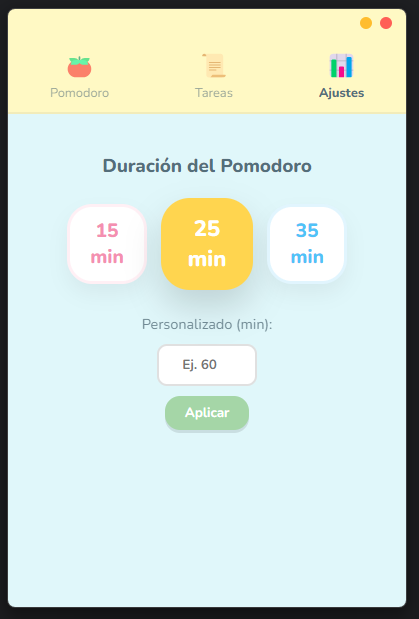
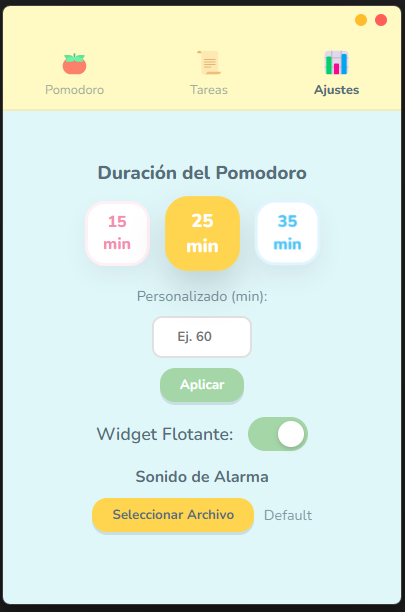
little fix on tareas

Changed region(s): [[0.1481, 0.2484, 0.8296, 0.9003], [0.0, 0.0, 1.0, 0.9935], [0.6519, 0.8382, 0.7704, 0.8693]]

diff --git a/src/index.html b/src/index.html
@@ -37,107 +37,105 @@
     </nav>
 
     <!-- Main Content Area -->
-    <!-- Main Content Area -->
-    <main>
-        <div id="pomodoro" class="tab-content active"
-            style="display: flex; flex-direction: column; width: 100%; align-items: center;">
-            <div class="timer-container">
-                <!-- Decorative elements mimicking the design -->
-                <div class="deco-star" style="top: 20%; left: 10%;">⭐</div>
-                <!-- <div class="deco-heart" style="top: 15%; right: 10%;">💖</div>-->
+    <main id="pomodoro" class="tab-content active">
+        <div class="timer-container">
+            <!-- Decorative elements mimicking the design -->
+            <div class="deco-star" style="top: 20%; left: 10%;">⭐</div>
+            <!-- <div class="deco-heart" style="top: 15%; right: 10%;">💖</div>-->
 
-                <div class="timer-circle-outer">
-                    <svg class="progress-ring" width="200" height="200">
-                        <circle class="progress-ring__circle-bg" stroke="#E0E0E0" stroke-width="15" fill="white" r="90"
-                            cx="100" cy="100" />
-                        <circle class="progress-ring__circle" stroke="#FFD54F" stroke-width="15" fill="transparent"
-                            r="90" cx="100" cy="100" />
-                    </svg>
-                    <div class="timer-text">
-                        <span id="time-display">25:00</span>
-                    </div>
-                </div>
-
-                <!-- Little cute characters (Generic CSS placeholders or emojis for now) -->
-                <div class="character-left"><img src="../assets/GatoPomodoro.svg" alt="Cute Cat"
-                        style="width: 11rem; height: auto;"></div>
-                <div class="character-right"><img src="../assets/GatoLibro.svg" alt="Reading Cat"
-                        style="width: 10rem; height: auto;"></div>
-            </div>
-
-            <div class="tasks-container">
-                <div class="tasks-header">
-                    <h3>Tareas</h3>
-                </div>
-
-
-
-                <div class="task-list" id="task-list">
-                    <!-- Tasks will be injected here -->
-                    <div class="task-item">
-                        <input type="checkbox" id="task1">
-                        <label for="task1">Estudiar programación</label>
-                        <span class="task-icon">🌈</span>
-                    </div>
+            <div class="timer-circle-outer">
+                <svg class="progress-ring" width="200" height="200">
+                    <circle class="progress-ring__circle-bg" stroke="#E0E0E0" stroke-width="15" fill="white" r="90"
+                        cx="100" cy="100" />
+                    <circle class="progress-ring__circle" stroke="#FFD54F" stroke-width="15" fill="transparent" r="90"
+                        cx="100" cy="100" />
+                </svg>
+                <div class="timer-text">
+                    <span id="time-display">25:00</span>
                 </div>
             </div>
+
+            <!-- Little cute characters (Generic CSS placeholders or emojis for now) -->
+            <div class="character-left"><img src="../assets/GatoPomodoro.svg" alt="Cute Cat"
+                    style="width: 11rem; height: auto;"></div>
+            <div class="character-right"><img src="../assets/GatoLibro.svg" alt="Reading Cat"
+                    style="width: 10rem; height: auto;"></div>
         </div>
 
-        <div id="tareas" class="tab-content" style="display: none;">
-            <div class="tasks-container" style="height: 100%; box-shadow: none;">
-                <div class="tasks-header">
-                    <h3>Lista de Tareas</h3>
-                </div>
-
-                <div id="add-task-form-full" style="display: none; padding: 10px; border-bottom: 1px solid #eee;">
-                    <input type="text" id="new-task-input-full" placeholder="Nueva tarea..."
-                        style="width: 100%; padding: 8px; border: 1px solid #ddd; border-radius: 8px; outline: none;">
-                </div>
-
-                <div class="task-list" id="task-list-full">
-                    <!-- Full task list -->
-                </div>
+        <div class="tasks-container">
+            <div class="tasks-header">
+                <h3>Tareas</h3>
             </div>
-        </div>
 
-        <div id="ajustes" class="tab-content" style="display: none;">
-            <div class="settings-container" style="text-align: center; padding: 20px;">
-                <h3>Duración del Pomodoro</h3>
-                <div class="time-options">
-                    <button class="btn-time" data-time="15">15 min</button>
-                    <button class="btn-time active" data-time="25">25 min</button>
-                    <button class="btn-time" data-time="35">35 min</button>
-                </div>
 
-                <div class="custom-time">
-                    <label>Personalizado (min):</label>
-                    <input type="number" id="custom-time-input" min="1" max="120" placeholder="Ej. 60">
-                    <button id="btn-set-custom" class="btn-small">Aplicar</button>
-                </div>
 
-                <div class="setting-item"
-                    style="margin-top: 15px; display: flex; align-items: center; justify-content: center; gap: 15px;">
-                    <label for="widget-toggle" style="font-size: 1.1rem; font-weight: 600;">Widget Flotante:</label>
-                    <label class="switch">
-                        <input type="checkbox" id="widget-toggle" checked>
-                        <span class="slider round"></span>
-                    </label>
-                </div>
-
-                <div class="setting-item" style="margin-top: 15px; text-align: center;">
-                    <h4 style="margin: 0 0 10px 0; color: #546E7A;">Sonido de Alarma</h4>
-                    <div style="display: flex; gap: 10px; justify-content: center; align-items: center;">
-                        <button id="btn-select-sound" class="btn-small"
-                            style="background:var(--accent-yellow); color: #546E7A;">Seleccionar Archivo</button>
-                        <span id="current-sound-label"
-                            style="font-size: 0.9rem; opacity: 0.7; max-width: 100px; white-space: nowrap; overflow: hidden; text-overflow: ellipsis;">Default</span>
-                        <button id="btn-reset-sound"
-                            style="background:none; border:none; cursor:pointer; font-size:1.2rem; color:#FF5F56;">✖</button>
-                    </div>
+            <div class="task-list" id="task-list">
+                <!-- Tasks will be injected here -->
+                <div class="task-item">
+                    <input type="checkbox" id="task1">
+                    <label for="task1">Estudiar programación</label>
+                    <span class="task-icon">🌈</span>
                 </div>
             </div>
         </div>
     </main>
+
+    <div id="tareas" class="tab-content" style="display: none;">
+        <div class="tasks-container" style="height: 100%; box-shadow: none;">
+            <div class="tasks-header">
+                <h3>Lista de Tareas</h3>
+            </div>
+
+            <div id="add-task-form-full" style="display: none; padding: 10px; border-bottom: 1px solid #eee;">
+                <input type="text" id="new-task-input-full" placeholder="Nueva tarea..."
+                    style="width: 100%; padding: 8px; border: 1px solid #ddd; border-radius: 8px; outline: none;">
+            </div>
+
+            <div class="task-list" id="task-list-full">
+                <!-- Full task list -->
+            </div>
+        </div>
+    </div>
+
+    <div id="ajustes" class="tab-content" style="display: none;">
+        <div class="settings-container" style="text-align: center; padding: 20px;">
+            <h3>Duración del Pomodoro</h3>
+            <div class="time-options">
+                <button class="btn-time" data-time="15">15 min</button>
+                <button class="btn-time active" data-time="25">25 min</button>
+                <button class="btn-time" data-time="35">35 min</button>
+            </div>
+
+            <div class="custom-time">
+                <label>Personalizado (min):</label>
+                <input type="number" id="custom-time-input" min="1" max="120" placeholder="Ej. 60">
+                <button id="btn-set-custom" class="btn-small">Aplicar</button>
+            </div>
+
+            <div class="setting-item"
+                style="margin-top: 15px; display: flex; align-items: center; justify-content: center; gap: 15px;">
+                <label for="widget-toggle" style="font-size: 1.1rem; font-weight: 600;">Widget Flotante:</label>
+                <label class="switch">
+                    <input type="checkbox" id="widget-toggle" checked>
+                    <span class="slider round"></span>
+                </label>
+            </div>
+
+            <div class="setting-item" style="margin-top: 15px; text-align: center;">
+                <h4 style="margin: 0 0 10px 0; color: #546E7A;">Sonido de Alarma</h4>
+                <div style="display: flex; gap: 10px; justify-content: center; align-items: center;">
+                    <button id="btn-select-sound" class="btn-small"
+                        style="background:var(--accent-yellow); color: #546E7A;">Seleccionar Archivo</button>
+                    <span id="current-sound-label"
+                        style="font-size: 0.9rem; opacity: 0.7; max-width: 100px; white-space: nowrap; overflow: hidden; text-overflow: ellipsis;">Default</span>
+                    <button id="btn-reset-sound"
+                        style="background:none; border:none; cursor:pointer; font-size:1.2rem; color:#FF5F56;">✖</button>
+                </div>
+            </div>
+        </div>
+    </div>
+    </div>
+    </div>
 
     <!-- Bottom Controls -->
     <footer class="controls">

diff --git a/src/styles.css b/src/styles.css
@@ -113,17 +113,18 @@ body {
 }
 
 /* Main Content */
-main {
+main,
+#ajustes {
     flex: 1;
     display: flex;
     flex-direction: column;
     padding: 10px 20px;
-    /* Reduced vertical padding */
     align-items: center;
     position: relative;
     overflow-y: auto;
-    /* Enable scrolling */
     overflow-x: hidden;
+    width: 100%;
+    /* Ensure full width */
 }
 
 /* Cute Scrollbar */
